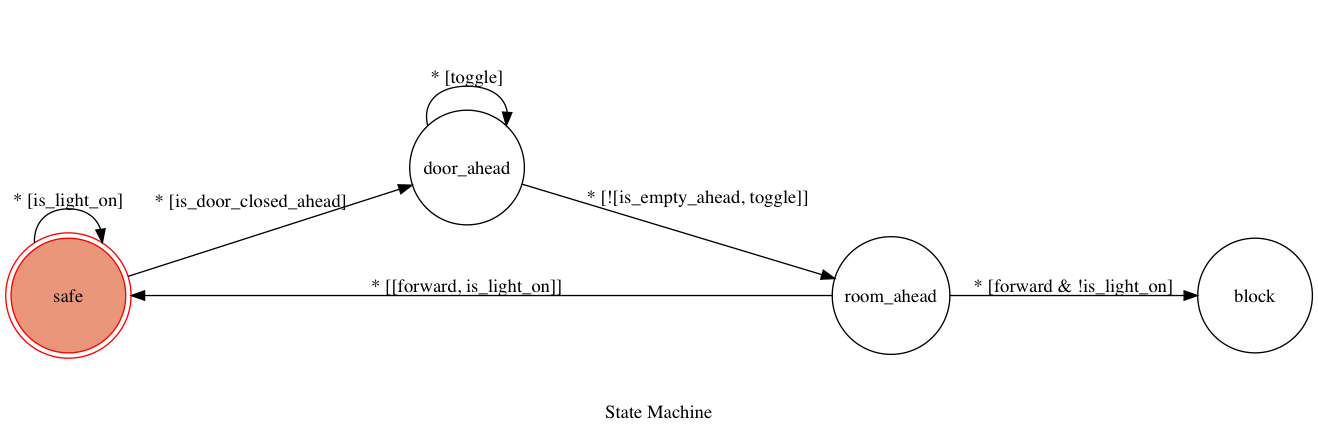
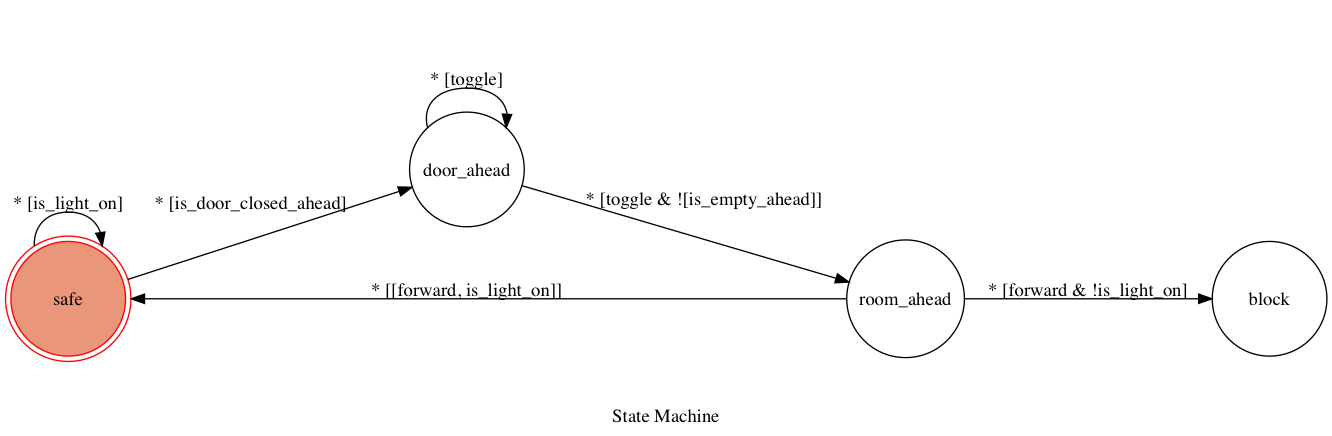
minor bug

diff --git a/gym_minigrid/automata.py b/gym_minigrid/automata.py
@@ -78,7 +78,8 @@ class AvoidDark(SafetyStateMachine):
         {'trigger': '*',
          'source': 'door_ahead',
          'dest': 'room_ahead',
-         'unless': '[is_empty_ahead, toggle]'},
+         'conditions': 'toggle',
+         'unless': '[is_empty_ahead]'},
 
         {'trigger': '*',
          'source': 'room_ahead',
